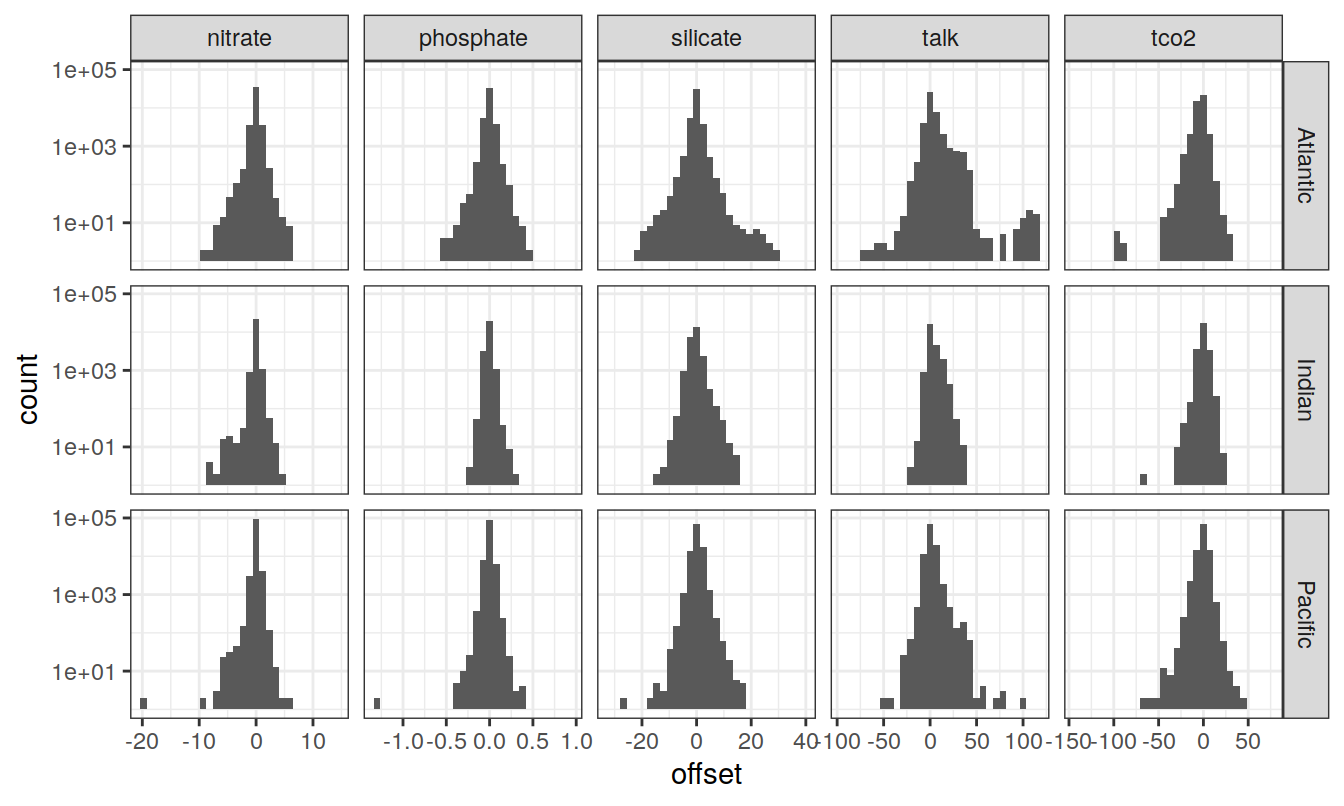
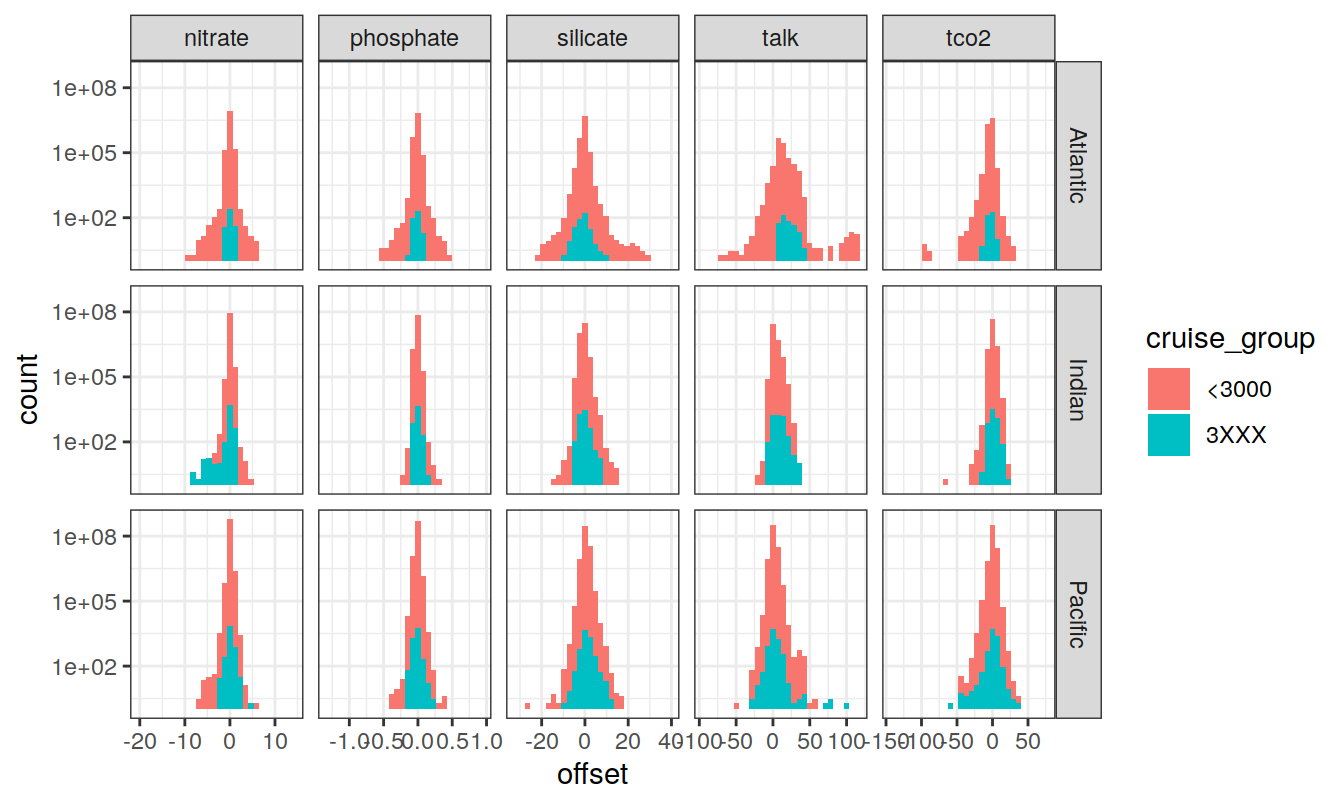
Build site.

diff --git a/docs/eMLR_GLODAPv2_2020_subsetting.html b/docs/eMLR_GLODAPv2_2020_subsetting.html
@@ -611,16 +611,16 @@ This reproducible <a href="http://rmarkdown.rstudio.com">R Markdown</a> analysis
 <div class="panel panel-default">
 <div class="panel-heading">
 <p class="panel-title">
-<a data-toggle="collapse" data-parent="#workflowr-checks" href="#strongRepositoryversionstrongahrefhttpsgithubcomjensdanielmuelleremlrobsvXXXtree12eeaa61d3a159375a46d93d7d8df652077bf5b8targetblank12eeaa6a"> <span class="glyphicon glyphicon-ok text-success" aria-hidden="true"></span> <strong>Repository version:</strong> <a href="https://github.com/jens-daniel-mueller/emlr_obs_v_XXX/tree/12eeaa61d3a159375a46d93d7d8df652077bf5b8" target="_blank">12eeaa6</a> </a>
+<a data-toggle="collapse" data-parent="#workflowr-checks" href="#strongRepositoryversionstrongahrefhttpsgithubcomjensdanielmuelleremlrobsvXXXtree8164b5eafcc4d0e5af36d260c4eac4b63ab69163targetblank8164b5ea"> <span class="glyphicon glyphicon-ok text-success" aria-hidden="true"></span> <strong>Repository version:</strong> <a href="https://github.com/jens-daniel-mueller/emlr_obs_v_XXX/tree/8164b5eafcc4d0e5af36d260c4eac4b63ab69163" target="_blank">8164b5e</a> </a>
 </p>
 </div>
[2 lines of base64/hex data omitted]
 <div class="panel-body">
 <p>
 Great! You are using Git for version control. Tracking code development and connecting the code version to the results is critical for reproducibility.
 </p>
 <p>
-The results in this page were generated with repository version <a href="https://github.com/jens-daniel-mueller/emlr_obs_v_XXX/tree/12eeaa61d3a159375a46d93d7d8df652077bf5b8" target="_blank">12eeaa6</a>. See the <em>Past versions</em> tab to see a history of the changes made to the R Markdown and HTML files.
+The results in this page were generated with repository version <a href="https://github.com/jens-daniel-mueller/emlr_obs_v_XXX/tree/8164b5eafcc4d0e5af36d260c4eac4b63ab69163" target="_blank">8164b5e</a>. See the <em>Past versions</em> tab to see a history of the changes made to the R Markdown and HTML files.
 </p>
 <p>
 Note that you need to be careful to ensure that all relevant files for the analysis have been committed to Git prior to generating the results (you can use <code>wflow_publish</code> or <code>wflow_git_commit</code>). workflowr only checks the R Markdown file, but you know if there are other scripts or data files that it depends on. Below is the status of the Git repository when the results were generated:
@@ -629,10 +629,6 @@ Note that you need to be careful to ensure that all relevant files for the analy
 Ignored files:
     Ignored:    .Rhistory
     Ignored:    .Rproj.user/
-
-Unstaged changes:
-    Modified:   code/Workflowr_project_managment.R
-    Modified:   data/auxillary/params_local.rds
 
 </code></pre>
 <p>
@@ -671,6 +667,40 @@ Message
 </tr>
 </thead>
 <tbody>
+<tr>
+<td>
+Rmd
+</td>
+<td>
+<a href="https://github.com/jens-daniel-mueller/emlr_obs_v_XXX/blob/8164b5eafcc4d0e5af36d260c4eac4b63ab69163/analysis/eMLR_GLODAPv2_2020_subsetting.Rmd" target="_blank">8164b5e</a>
+</td>
+<td>
+jens-daniel-mueller
+</td>
+<td>
+2021-06-02
+</td>
+<td>
+offset histogram canyon-B for GLODAP prerelease
+</td>
+</tr>
+<tr>
+<td>
+html
+</td>
+<td>
+<a href="https://rawcdn.githack.com/jens-daniel-mueller/emlr_obs_v_XXX/be90356df2057730a6648228ad3bf92bb1501122/docs/eMLR_GLODAPv2_2020_subsetting.html" target="_blank">be90356</a>
+</td>
+<td>
+jens-daniel-mueller
+</td>
+<td>
+2021-06-02
+</td>
+<td>
+Build site.
+</td>
+</tr>
 <tr>
 <td>
 html
@@ -8121,8 +8151,11 @@ GLODAP_combined &lt;- GLODAP_combined %&gt;%
   )</code></pre>
 <div id="residual-histograms" class="section level3" number="3.4.1">
 <h3 number="3.4.1"><span class="header-section-number">3.4.1</span> Residual histograms</h3>
-<pre class="r"><code>GLODAP_combined %&gt;%
-  ggplot(aes(offset)) +
+<pre class="r"><code>GLODAP_combined &lt;- GLODAP_combined %&gt;% 
+  mutate(cruise_group = if_else(cruise &gt;= 3000, &quot;3XXX&quot;, &quot;&lt;3000&quot;))
+
+GLODAP_combined %&gt;%
+  ggplot(aes(offset, fill=cruise_group)) +
   geom_histogram() +
   scale_y_continuous(trans = &quot;log10&quot;) +
   facet_grid(basin_AIP ~ parameter, scales = &quot;free_x&quot;)</code></pre>
@@ -8329,6 +8362,8 @@ jens-daniel-mueller
 </table>
 </div>
 </div>
+<pre class="r"><code>GLODAP_combined &lt;- GLODAP_combined %&gt;% 
+  select(-cruise_group)</code></pre>
 </div>
 <div id="property-property-plots" class="section level3" number="3.4.2">
 <h3 number="3.4.2"><span class="header-section-number">3.4.2</span> Property-property plots</h3>
